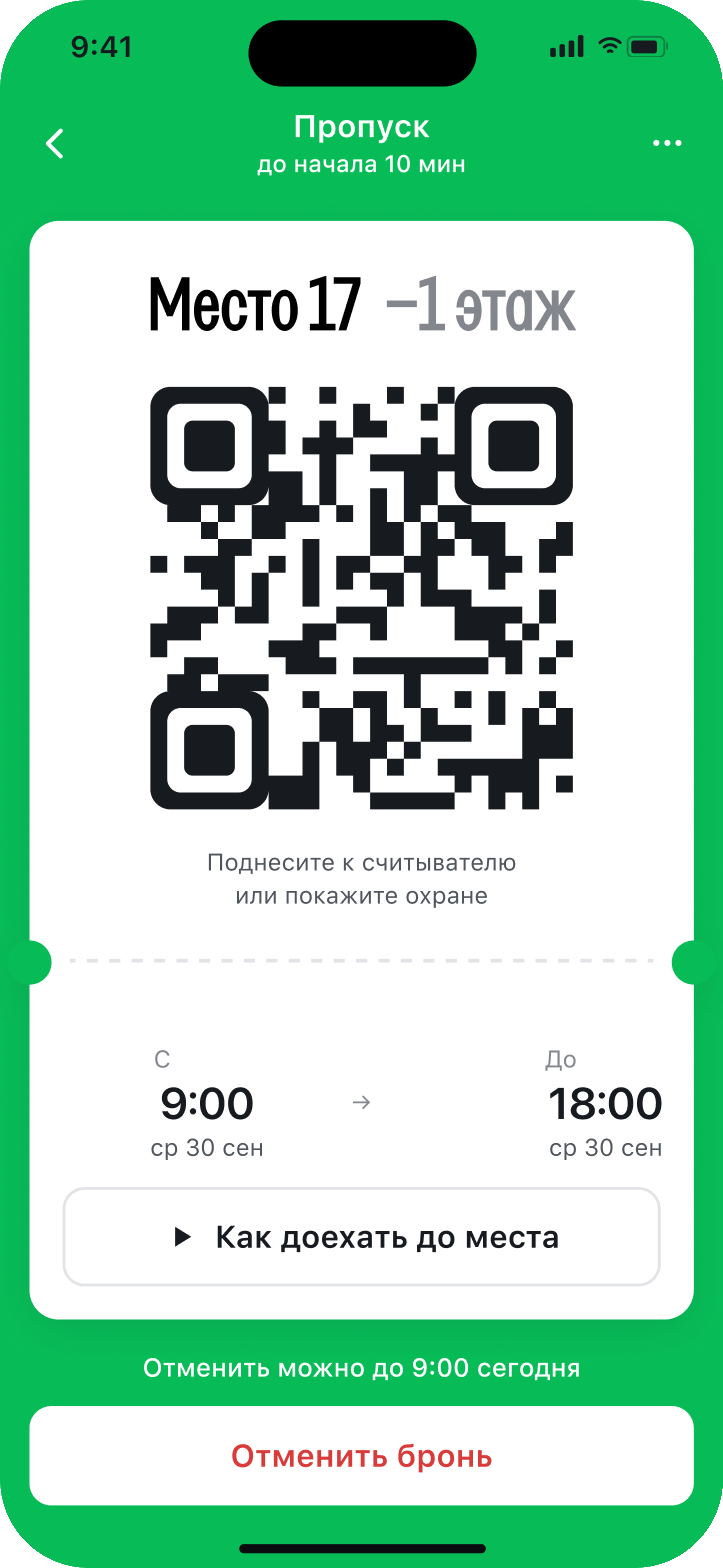
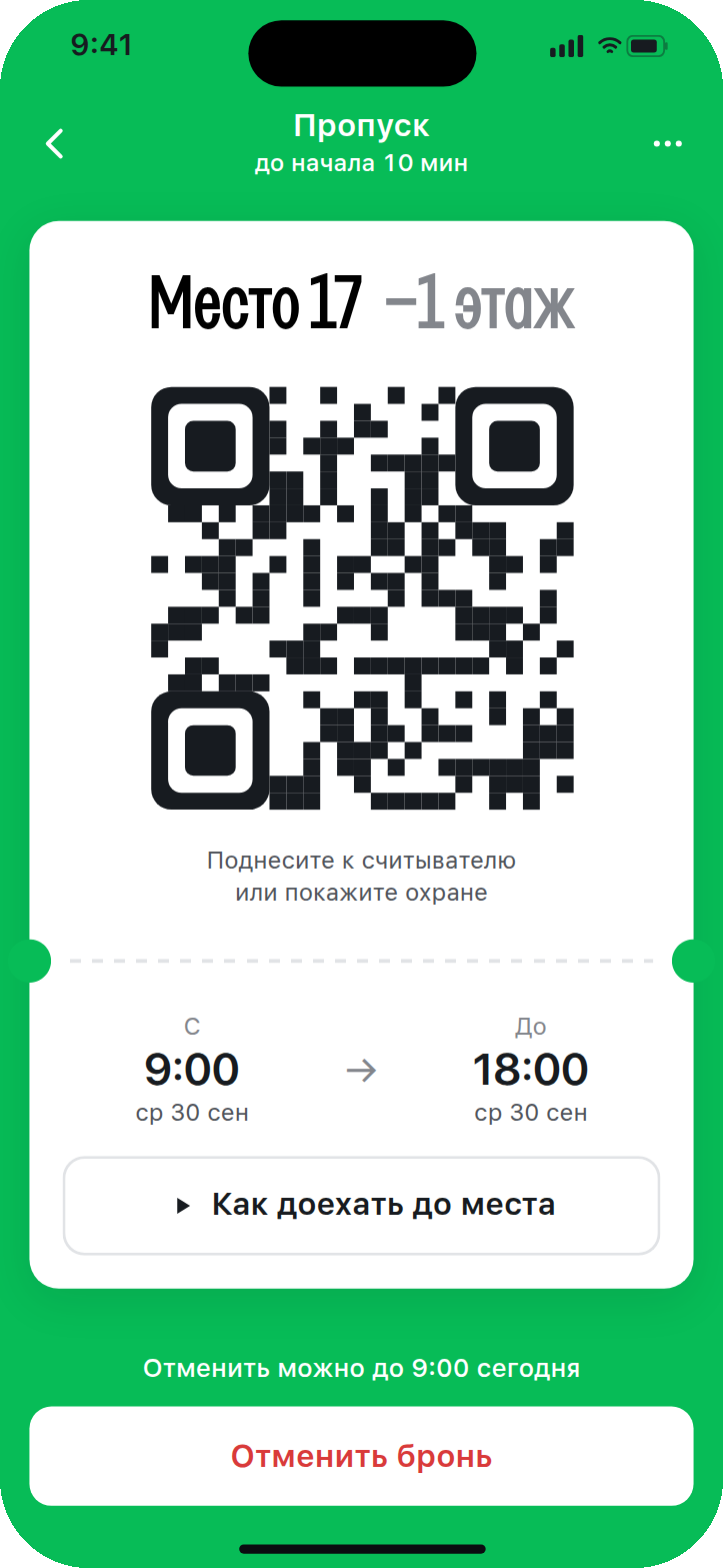
fix(ticket): выровнять блок времени в пропуске и обновить кадры кейса
Правило .tk-times span перебивало .tk-arrow: стрелка была 13px вместо 20.
Подписи «С»/«До» теперь по центру над временем. Кадры пропуска на
странице кейса пересняты с прототипа.

Claude-Session: https://claude.ai/code/session_0139vpd9aW6UCkXTQQZg3tMX

diff --git a/src/ui/ui.css b/src/ui/ui.css
@@ -231,10 +231,10 @@
 .entry { display: flex; flex-direction: column; align-items: center; gap: 10px; }
 .entry .btn { width: 100%; }
 .tk-times { display: grid; grid-template-columns: 1fr auto 1fr; align-items: center; text-align: center; margin-bottom: 16px; }
-.tk-times span { display: block; font-size: 13px; color: var(--text-muted); }
+.tk-times > div > span { display: block; font-size: 13px; color: var(--text-muted); }
 .tk-times b { display: block; font: 600 24px/1.2 var(--font-display); margin-top: 2px; }
 .tk-times small { display: block; font-size: 13px; color: var(--text-secondary); margin-top: 1px; }
-.tk-arrow { color: var(--text-muted); font-size: 20px; }
+.tk-arrow { padding: 0 12px; font: 400 22px/1 var(--font-text); color: var(--text-muted); }
 .tk-card .btn.secondary svg { color: var(--text); }
 /* Отмена — внизу экрана, у большого пальца и подальше от пропуска: её не нажмут случайно у ворот */
 .tk-cancel { margin-top: auto; padding: 22px 16px 0; text-align: center; }
